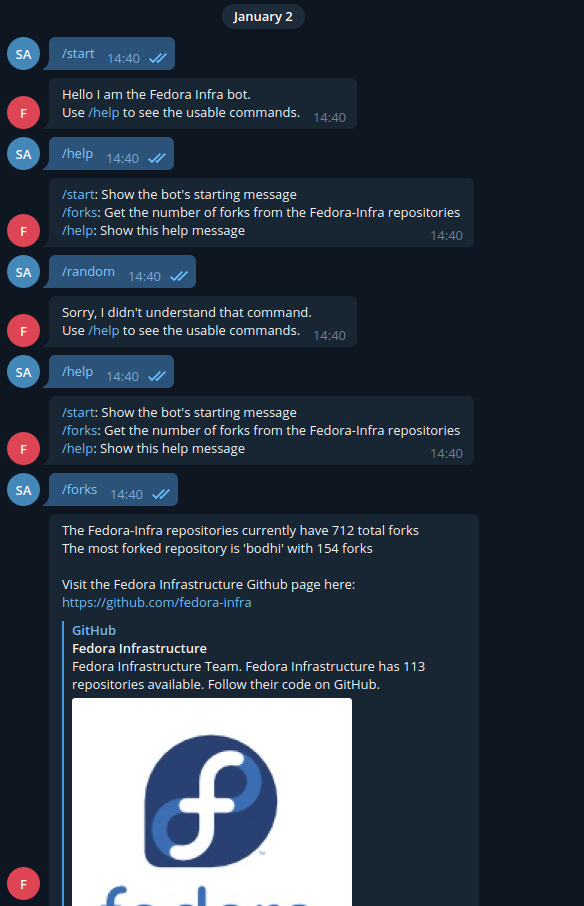
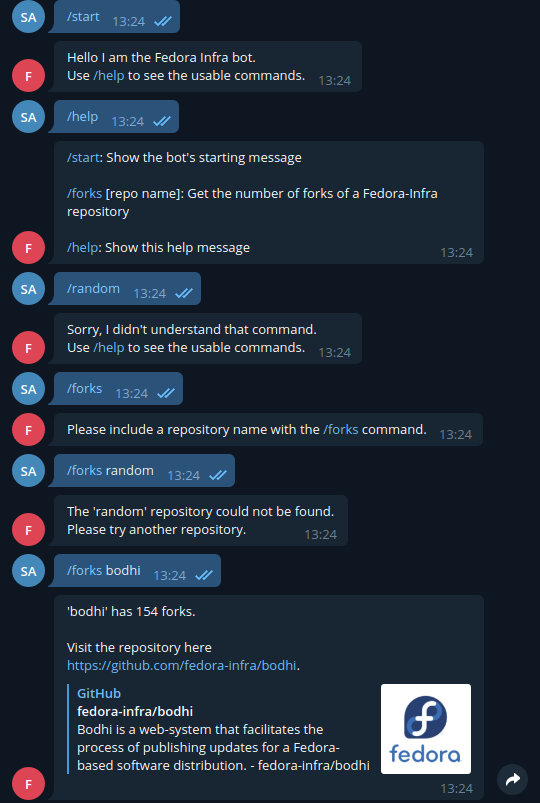
Allowed specific repos to be queried

diff --git a/Fedora-Telegram-Bot/main.py b/Fedora-Telegram-Bot/main.py
@@ -10,7 +10,7 @@ from telegram.ext import CommandHandler, Filters, MessageHandler, Updater
 # callback functions:
 
 
-def start(update, *_):
+def start(update, _):
     """Send a start message when the /start command is used"""
 
     update.message.reply_text(
@@ -18,27 +18,39 @@ def start(update, *_):
     )
 
 
-def help_command(update, *_):
+def help_command(update, _):
     """Show the available commands when /help is used"""
 
     update.message.reply_text(
-        "/start: Show the bot's starting message\n/forks: Get the number of forks from the Fedora-Infra repositories\n/help: Show this help message"
+        "/start: Show the bot's starting message\n\n/forks [repo name]: Get the number of forks of a Fedora-Infra repository\n\n/help: Show this help message"
     )
 
 
-def forks(update, *_):
-    """Show the number of forks from the Fedora-Infra repos when /forks is used"""
+def forks(update, context):
+    """Show the number of forks of a Fedora-Infra repo"""
 
-    forks_count, most_forked, highest_fork_count = get_forks()
+    repo_name = " ".join(context.args)
 
-    url = "https://github.com/fedora-infra"
+    if not repo_name:
+        update.message.reply_text(
+            "Please include a repository name with the /forks command."
+        )
+        return
 
-    update.message.reply_text(
-        f"The Fedora-Infra repositories currently have {forks_count} total forks\nThe most forked repository is '{most_forked}' with {highest_fork_count} forks\n\nVisit the Fedora Infrastructure Github page here:\n{url}"
-    )
+    repo_info = get_repo_forks(repo_name)
+
+    if repo_info:
+        fork_count, url = repo_info
+        update.message.reply_text(
+            f"'{repo_name}' has {fork_count} forks.\n\nVisit the repository here\n{url}."
+        )
+    else:
+        update.message.reply_text(
+            f"The '{repo_name}' repository could not be found.\nPlease try another repository."
+        )
 
 
-def unknown(update, *_):
+def unknown(update, _):
     """Send a message when an unknown command is used"""
 
     update.message.reply_text(
@@ -46,32 +58,33 @@ def unknown(update, *_):
     )
 
 
-def get_forks():
-    """Fetch number of forks from the Fedora-infra repos and the most forked repo"""
+def get_repos_data():
+    """Returns the repo data for the fedora-infra repos"""
 
     url = "https://api.github.com/orgs/fedora-infra/repos"
     response = requests.get(url)
     repos = response.json()
 
-    forks_count = 0
-    most_forked = ""
-    highest_fork_count = 0
+    return repos
+
+
+def get_repo_forks(name):
+    """Fetch number of forks from a Fedora-infra repo"""
+
+    repos = get_repos_data()
 
     for repo in repos:
-        fork_count = repo["forks_count"]
-        forks_count += fork_count
+        if repo["name"] == name:
+            fork_count = repo["forks_count"]
+            url = repo["html_url"]
 
-        if fork_count > highest_fork_count:
-            most_forked = repo["name"]
-            highest_fork_count = fork_count
-
-    return (forks_count, most_forked, highest_fork_count)
+            return (fork_count, url)
 
 
 def main():
     """main function"""
 
-    token = "1027172895:AAEKPuL-9wYVI2kCUzNFNQ1wjFkYROqqrek"
+    token = ""
 
     updater = Updater(token, use_context=True)
 

diff --git a/Fedora-Telegram-Bot/README.md b/Fedora-Telegram-Bot/README.md
@@ -2,12 +2,12 @@
 
 The bot has the following commands: 
 * `/start`
-* `/forks`
+* `/forks [repo name]`
 * `/help`
 
-`/forks` displays the total number of forks of the fedora-infra repositories on Github. This is done by calling the Github API and then totalling the `forks_count` value for each repository. These values are also used to find the repository with the most forks.
+`/forks [repo name]` displays the number of forks of a specific fedora-infra repository on Github. This is done by calling the Github API and scraping the `forks_count` value (as well as the `html_url` so that the user can visit the repository).
 
-The code is in [main.py](https://github.com/suhas-arun/Google-Code-In/tree/master/Fedora-Telegram-Bot/main.py). For the callback functions, `*_` is used as the second argument as there is usually an extra argument for `context` which is not used in the functions.
+The code is in [main.py](https://github.com/suhas-arun/Google-Code-In/tree/master/Fedora-Telegram-Bot/main.py).
 
 Press Ctrl + C to stop the bot.
 
